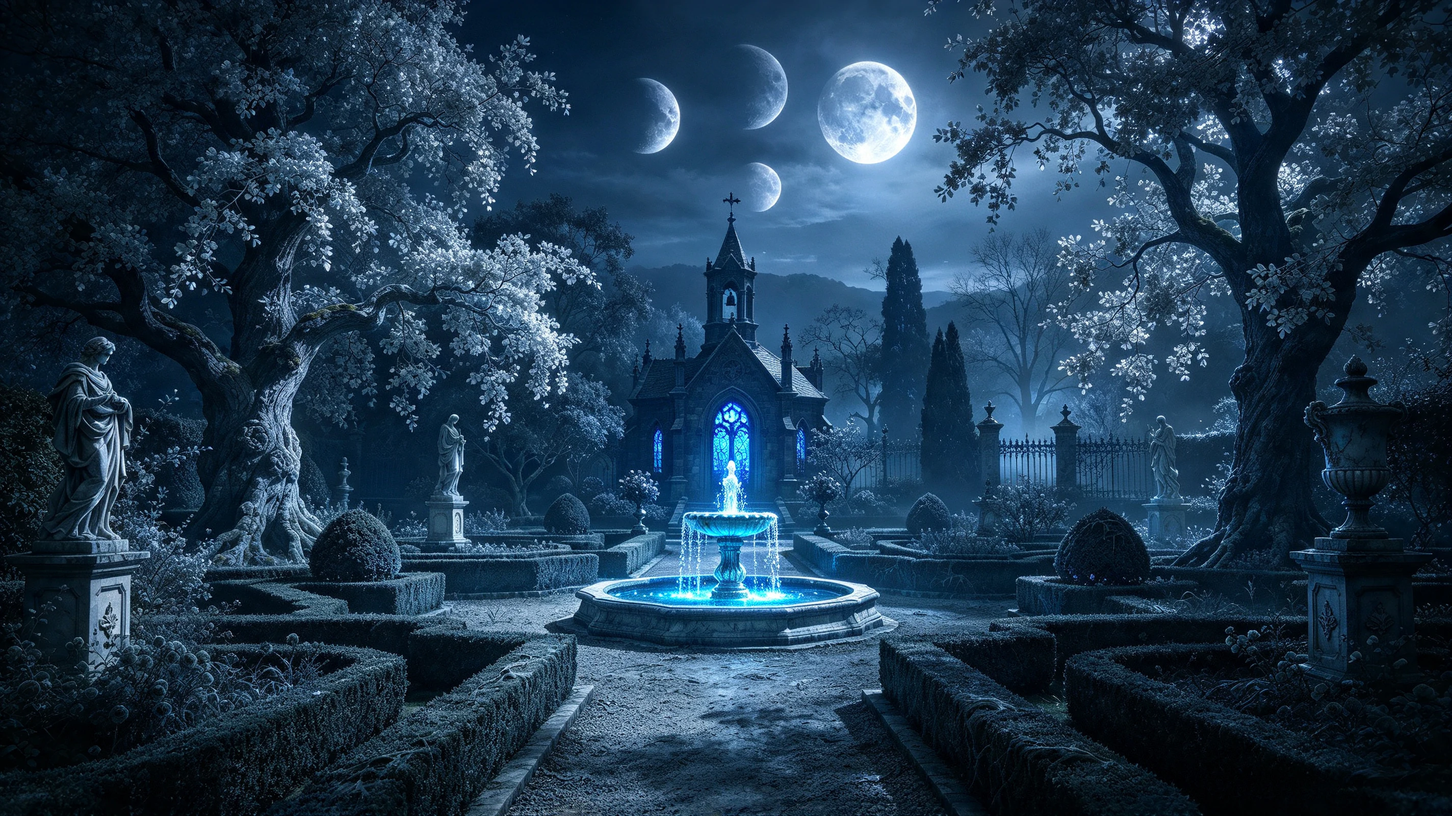
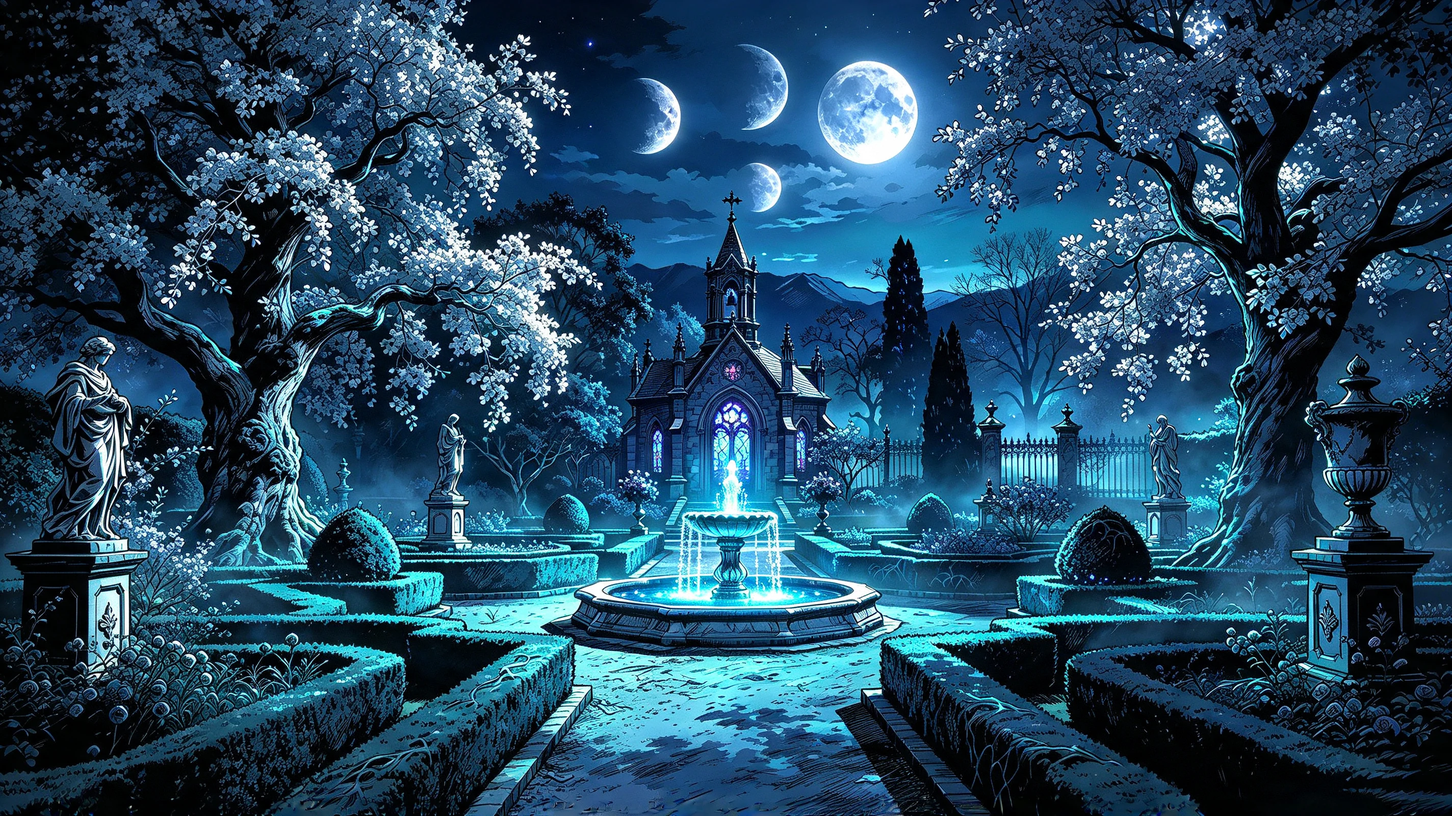
Esterni: niente ingresso principale, la foresta che riporta indietro senza costo; nuova immagine del giardino
- tolti il luogo «ingresso», l'arco, i solchi e la fuga con i mastini da Aldo
- a sud del giardino, scavalcando le siepi o oltre i settori della foresta si torna alla fontana o al limitare, senza danno mentale (prima la fuga dal giardino costava 1 punto)
- salvataggi fermi sull'ingresso: ripartono dal giardino
- giardino.webp nuovo (logo rimosso)
- storia 11b, punto della situazione e test degli esterni aggiornati

Claude-Session: https://claude.ai/code/session_01HNZwf73aujKp1jtML1nnTM

diff --git a/gioco.html b/gioco.html
@@ -5527,7 +5527,9 @@
     /* =====================================================================
        FUORI CASA, NUOVA CONFORMAZIONE (30/10): il giardino è il crocevia.
        Nord: cimitero (anche dalla porticina della cappella). Est: cappella e cripta. Ovest: orto e serra.
-       Sud: ingresso principale, un arco senza porte: chi prova a oltrepassarlo viene riportato da Aldo dai mastini.
+       Sud: nessun ingresso (02/11): la tenuta non ha cancelli, il personaggio è entrato dalla grotta.
+       La foresta che riporta indietro: chi prova ad allontanarsi (a sud del giardino, oltre i settori della foresta) si ritrova
+       alla fontana o al limitare da cui è entrato. Nessun costo.
        Tutto attorno la foresta, a settori: nord (pineta, oltre il cimitero), est (oltre la cappella), ovest (oltre la serra).
        TESTI PROVVISORI, da riscrivere; le immagini dei settori arriveranno (foresta_nord/est/ovest).
        ===================================================================== */
@@ -5544,17 +5546,6 @@
             ritorno: ["Torni tra le aiuole di pietra. Dai vetri anneriti della serra trapela ancora quel tepore umido."]
           },
           fatti: "Orto di Casa Vespera, a ovest della casa, oltre una siepe di bosso pietrificato: aiuole in file ordinate con paletti e cartellini di legno scritti a mano, ortaggi grigi e duri come pietra; in fondo una serra di ferro battuto e vetro, molti vetri anneriti dal fumo e alcuni incrinati, dentro un tepore umido e odore di terra bagnata; oltre la serra comincia la foresta di pini. Si torna in giardino dal viale verso la fontana."
-        },
-        ingresso: {
-          vista: { titolo: "Ingresso principale", alt: "Un viale di ghiaia tra cipressi pietrificati che termina sotto un grande arco di pietra annerita, senza cancello; oltre, la nebbia e i pini." },
-          stanza: {
-            intro: ["A sud della fontana il viale di ghiaia corre dritto tra due file di cipressi pietrificati, fino a un grande arco di pietra annerita. È l'ingresso della tenuta: due pilastri sormontati dall'albero dei Vespera, e in mezzo niente. Nessun cancello, nessuna catena, nessuna serratura. Solo il viale che prosegue oltre, nella nebbia, verso i pini.",
-              "Proprio sotto l'arco la ghiaia è segnata da solchi profondi, come di unghie trascinate. Tornano tutti indietro, verso la casa."],
-            nota: "Puoi oltrepassare l'arco («attraverso l'arco», «vado a sud») o tornare in giardino («torno in giardino»).",
-            fallbackLibera: ["Ci provi, ma qui non c'è nulla di utile in questo senso. Il viale, i cipressi di pietra e l'arco senza porte sono ciò che hai intorno."],
-            ritorno: ["Torni sotto l'arco. La nebbia oltre i pilastri non si è mossa di un palmo."]
-          },
-          fatti: "Ingresso principale della tenuta dei Vespera, a sud della fontana: viale di ghiaia dritto tra due file di cipressi pietrificati; in fondo un grande arco di pietra annerita su due pilastri sormontati dall'albero dei Vespera, senza cancello né porte; oltre l'arco il viale prosegue nella nebbia verso i pini; sotto l'arco solchi profondi nella ghiaia, come di unghie trascinate, che tornano tutti verso la casa. Dalla casa si esce solo con il permesso di Aldo, dalla tenuta mai: chi oltrepassa l'arco viene riportato indietro dai mastini. Si torna in giardino dal viale."
         },
         pineta_est: {
           vista: { titolo: "Foresta dei pini, est", alt: "Una foresta di pini alti sotto le lune, oltre la cappella." },
@@ -5584,16 +5575,6 @@
             ritorno: ["You return among the stone beds. That damp warmth still seeps from the blackened panes of the greenhouse."]
           }
         },
-        ingresso: {
-          vista: { titolo: "Main entrance", alt: "A gravel avenue between petrified cypresses ending beneath a great arch of blackened stone, with no gate; beyond, mist and pines." },
-          stanza: {
-            intro: ["South of the fountain the gravel avenue runs straight between two rows of petrified cypresses, up to a great arch of blackened stone. It is the entrance to the estate: two pillars crowned with the Vespera tree, and between them nothing. No gate, no chain, no lock. Only the avenue going on, into the mist, towards the pines.",
-              "Right beneath the arch the gravel is scored with deep furrows, like dragged claws. They all lead back, towards the house."],
-            nota: "You can pass beyond the arch (“I cross the arch”, “I go south”) or go back to the garden (“I return to the garden”).",
-            fallbackLibera: ["You try, but there is nothing useful here in that respect. The avenue, the stone cypresses and the doorless arch are what lie around you."],
-            ritorno: ["You return beneath the arch. The mist beyond the pillars has not moved an inch."]
-          }
-        },
         pineta_est: {
           vista: { titolo: "Pine forest, east", alt: "A forest of tall pines under the moons, beyond the chapel." },
           stanza: { intro: pEn.intro,
@@ -5609,38 +5590,28 @@
             ritorno: pEn.ritorno }
         }
       });
-      for (const id of ["serra", "ingresso", "pineta_est", "pineta_ovest"]) ESTERNI.en[id].fatti = ESTERNI.it[id].fatti;
+      for (const id of ["serra", "pineta_est", "pineta_ovest"]) ESTERNI.en[id].fatti = ESTERNI.it[id].fatti;
       Object.assign(ESTERNI.it.luoghi, {
         serra_aiuole: { fisso: ["Ti chini sulle aiuole. Cavoli, porri, cespi d'insalata: tutto di pietra grigia, perfetto fino all'ultima venatura delle foglie. Sui cartellini di legno una grafia minuta e ordinata ha scritto i nomi delle piante. Qualcuno, un tempo, teneva molto a quest'orto."] },
         serra_interno: { fisso: ["Spingi la porta della serra. Dentro l'aria è tiepida e umida, e per un attimo ti sembra di respirare di nuovo. Sui banconi, file di vasi: quasi tutti di pietra come il resto, ma in un angolo, sotto il vetro meno annerito, qualche piantina è ancora verde. La terra nei vasi è bagnata: qualcuno le annaffia."] },
-        ingresso_arco: { fisso: ["Ti avvicini ai pilastri. La pietra è annerita, ma l'albero dei Vespera in cima è intatto, le radici intrecciate scolpite con cura. Tra i pilastri non ci sono cardini, né segni di un cancello che sia mai stato montato. Questa porta non ha mai avuto bisogno di chiudersi."] },
-        ingresso_solchi: { fisso: ["Ti chini sulla ghiaia. I solchi sono profondi, a gruppi di quattro, come artigli che hanno trascinato qualcosa di pesante. Partono tutti appena oltre l'arco e tornano verso la casa. Nessuno va nell'altra direzione."] }
       });
       Object.assign(ESTERNI.en.luoghi, {
         serra_aiuole: { fisso: ["You bend over the beds. Cabbages, leeks, heads of lettuce: all grey stone, perfect down to the last vein of the leaves. On the wooden labels a small, neat hand has written the names of the plants. Someone, once, cared a great deal for this garden."] },
         serra_interno: { fisso: ["You push the greenhouse door. Inside the air is warm and damp, and for a moment you feel you can breathe again. On the benches, rows of pots: almost all stone like the rest, but in a corner, under the least blackened pane, a few seedlings are still green. The soil in the pots is wet: someone waters them."] },
-        ingresso_arco: { fisso: ["You approach the pillars. The stone is blackened, but the Vespera tree on top is intact, its intertwined roots carved with care. Between the pillars there are no hinges, no sign that a gate was ever hung. This door has never needed to close."] },
-        ingresso_solchi: { fisso: ["You bend over the gravel. The furrows are deep, in groups of four, like claws that dragged something heavy. They all start just beyond the arch and lead back towards the house. None goes the other way."] }
       });
       Object.assign(ESTERNI.it, {
-        fugaIngresso: ["Passi sotto l'arco. Dieci passi, venti: la ghiaia diventa terra battuta, la nebbia si chiude alle tue spalle. Poi, davanti a te, un ringhio basso. Un altro di lato. Un terzo dietro. I mastini escono dalla nebbia senza fretta, gli occhi di brace, il fiato che fuma. Non ti attaccano: ti stringono, ti spingono, un passo alla volta, lungo il viale, oltre la fontana, dentro il portone.",
-          "Non hai ancora superato i pilastri che il viale si riempie di ombre basse e fumanti. I mastini ti circondano in silenzio; uno ti prende il polso tra le zanne, senza stringere, e comincia a tirare. Non verso la nebbia. Verso la casa."],
-        aldoFuga: ["«Uscire dalla casa è un permesso che concedo io. Lasciare le terre dei Vespera, invece, è un permesso che non concedo a nessuno.» Aldo fa un cenno, e i mastini si dileguano. «Che non si ripeta. I miei cani non sono pazienti quanto me.»"],
         nessunaStrada: "Da quella parte non c'è un passaggio: solo siepi, pietra e buio."
       });
       Object.assign(ESTERNI.en, {
-        fugaIngresso: ["You pass beneath the arch. Ten steps, twenty: the gravel turns to packed earth, the mist closes behind you. Then, ahead of you, a low growl. Another to one side. A third behind. The mastiffs come out of the mist unhurried, eyes of embers, breath smoking. They do not attack: they close in, they push, one step at a time, along the avenue, past the fountain, through the great door.",
-          "You have not yet passed the pillars when the avenue fills with low, smoking shadows. The mastiffs surround you in silence; one takes your wrist between its jaws, without biting down, and starts to pull. Not towards the mist. Towards the house."],
-        aldoFuga: ["“Leaving the house is a permission I grant. Leaving the lands of the Vespera, however, is a permission I grant to no one.” Aldo makes a sign, and the mastiffs melt away. “Do not let it happen again. My dogs are not as patient as I am.”"],
         nessunaStrada: "There is no way through in that direction: only hedges, stone and darkness."
       });
     }
-    for (const l of ["it", "en"]) for (const id of ["cimitero", "pineta", "serra", "ingresso", "pineta_est", "pineta_ovest"]) { TESTI[l].stanze[id] = ESTERNI[l][id].stanza; TESTI[l].viste[id] = ESTERNI[l][id].vista; Object.assign(TESTI[l].luoghi, ESTERNI[l].luoghi); }
-    for (const id of ["cimitero", "pineta", "serra", "ingresso", "pineta_est", "pineta_ovest"]) STANZE_FATTI[id] = ESTERNI.it[id].fatti;
+    for (const l of ["it", "en"]) for (const id of ["cimitero", "pineta", "serra", "pineta_est", "pineta_ovest"]) { TESTI[l].stanze[id] = ESTERNI[l][id].stanza; TESTI[l].viste[id] = ESTERNI[l][id].vista; Object.assign(TESTI[l].luoghi, ESTERNI[l].luoghi); }
+    for (const id of ["cimitero", "pineta", "serra", "pineta_est", "pineta_ovest"]) STANZE_FATTI[id] = ESTERNI.it[id].fatti;
     const EST2 = ESTERNI[LINGUA] || ESTERNI.it;
     { /* luoghi del cimitero e della foresta: due prove per gli ingredienti, che si riaprono a ogni riposo */
       const erbe = (ok) => { if (ok) { usate.pineta_erbe = usate.pineta_cerca = "ok"; salvaUsate(); raccogliErbe(); } };
-      const M = { cim_lapidi: {}, cim_rovi: {}, cim_cancello: {}, pineta_alberi: {}, pineta_sentiero: {}, serra_aiuole: {}, serra_interno: {}, ingresso_arco: {}, ingresso_solchi: {},
+      const M = { cim_lapidi: {}, cim_rovi: {}, cim_cancello: {}, pineta_alberi: {}, pineta_sentiero: {}, serra_aiuole: {}, serra_interno: {},
         pineta_erbe: { prova: { abilita: "Sopravvivenza", dado: 20, cd: 12 }, poi: erbe },
         pineta_cerca: { prova: { abilita: "Indagare", dado: 20, cd: 12 }, poi: erbe } };
       for (const id in M) LUOGHI[id] = { ...M[id], ...EST2.luoghi[id] };
@@ -5648,7 +5619,6 @@
     LUOGHI.cappella_panche = { ...LUOGHI.cappella_panche, prova: { abilita: "Indagare", dado: 20, cd: 12 }, ...ET.panche }; /* le tacche di Ettore: i suoi giorni */
     PROVE_DICHIARATE.pineta = PROVE_DICHIARATE.pineta_est = PROVE_DICHIARATE.pineta_ovest = { Sopravvivenza: "pineta_erbe", Indagare: "pineta_cerca", Percezione: "pineta_alberi" };
     PROVE_DICHIARATE.serra = { Indagare: "serra_interno", Percezione: "serra_aiuole" };
-    PROVE_DICHIARATE.ingresso = { Indagare: "ingresso_solchi", Percezione: "ingresso_arco", Sopravvivenza: "ingresso_solchi" };
     const FORESTE = ["pineta", "pineta_est", "pineta_ovest"]; /* 30/10: la foresta a settori (nord, est, ovest) */
     PROVE_DICHIARATE.cimitero = { Indagare: "cim_lapidi", Percezione: "cim_rovi" };
     /* =====================================================================
@@ -5908,6 +5878,7 @@
 
     /* Una nuova partita parte dalla foresta, fuori dal dungeon; i salvataggi già esistenti riprendono dal loro luogo */
     let luogo = (salvata && Array.isArray(salvata.diario) && salvata.diario.length) ? "atrio" : "foresta";
+    if (salvata && salvata.luogo === "ingresso") salvata.luogo = "giardino"; /* 02/11: l'ingresso principale non esiste più */
     if (salvata && salvata.luogo && STANZE[salvata.luogo]) luogo = salvata.luogo;
 
     const SCALE = { ...TX.scale, soglia: 14, dannoDado: 4 };
@@ -6086,7 +6057,6 @@
         if (/cappell|chapel|chiesa|church/.test(t)) return (muovi || torna || /\bentr\w*|\bvado\b|\bgo\b/.test(t)) && !guarda ? "entra_cappella" : "giardino_cappella";
         if (/cimiter\w*|camposanto|lapid\w*|graveyard|cemetery|headstones?/.test(t)) return (muovi || /\bentr\w*|\bvado\b|\bgo\b/.test(t)) && !guarda ? "entra_cimitero" : "stanza_corrente";
         if (/\bserr[ae]\b|\borto\b|ortagg\w*|aiuol\w*|greenhouse|kitchen garden|vegetable/.test(t)) return (muovi || /\bentr\w*|\bvado\b|\bgo\b/.test(t)) && !guarda ? "entra_serra" : "stanza_corrente";
-        if (/ingresso|\barco\b|cipress\w*|viale principal\w*|main entrance|archway|\barch\b|cypress\w*|main avenue/.test(t)) return (muovi || /\bentr\w*|\bvado\b|\bgo\b/.test(t)) && !guarda ? "entra_ingresso" : "stanza_corrente";
         if (/pinet\w*|\bpini\b|forest\w*|\bbosco\b|\bwoods?\b|\bpines?\b/.test(t)) return "pineta_lontana";
         if (/fontan|vasca|\bacqua\b|fountain|basin|water/.test(t)) return /\bbev\w*|\bbere\b|sors\w*|\bdrink\w*|\bsip\w*|disset\w*/.test(t) ? "fontana_bevi" : "giardino_fontana";
         if (/statu\w*|\bdam[ae] velat\w*|statue/.test(t)) return "giardino_statue";
@@ -6129,16 +6099,10 @@
         if (/\bserr[ae]\b|vetr\w*|vas[io]\b|piantin\w*|bancon\w*|greenhouse|glass|panes?|pots?|seedlings?|dentro|inside/.test(t)) return "serra_interno";
         if (/aiuol\w*|ortagg\w*|\borto\b|cartellin\w*|palett\w*|cavol\w*|beds?|vegetables?|labels?|stakes?/.test(t)) return "serra_aiuole";
       }
-      if (luogo === "ingresso") {
-        if (!guarda && /oltrepass\w*|attravers\w*|varc\w*|super\w*|scapp\w*|fugg\w*|\besc[oi]\b|uscir\w*|allontan\w*|prosegu\w*|nebbi\w*|\bcross\w*|pass (through|beyond|under)|escape|flee|run away|\bleave\b|beyond|\bmist\b/.test(t)) return "fuga_ingresso";
-        if (torna || /giardin|garden|fontan|fountain/.test(t)) return "torna";
-        if (atrio || /\bcasa\b|house|manor|cappell|chapel|cripta|crypt|cimiter|graveyard/.test(t)) return "casa_lontana";
-        if (/solch\w*|ghiai\w*|unghi\w*|artigl\w*|furrows?|gravel|claws?|tracks?/.test(t)) return "ingresso_solchi";
-        if (/\barco\b|pilastr\w*|alber\w*|cardin\w*|\barch\w*|pillars?|tree|hinges?/.test(t)) return "ingresso_arco";
-      }
       if (FORESTE.includes(luogo)) {
         const ritorno = { pineta: /cimiter\w*|cancell\w*|lapid\w*|graveyard|cemetery|\bgate\b/, pineta_est: /cappell\w*|campanil\w*|chapel|bell tower/, pineta_ovest: /\bserr[ae]\b|\borto\b|greenhouse|kitchen garden/ }[luogo];
         if (torna || ritorno.test(t)) return "torna";
+        if (!guarda && /scapp\w*|fugg\w*|allontan\w*|uscir\w*|\besc[oi] dal\w*|oltre|confin\w*|escape|flee|run away|get away|\bleave\b|beyond|way out/.test(t)) return "pineta_sentiero"; /* 02/11: la foresta riporta indietro */
         if (atrio || /\bcasa\b|house|manor|cappell|chapel|cripta|crypt|giardin|garden|cimiter\w*|graveyard|\bserr[ae]\b|greenhouse/.test(t)) return "casa_lontana";
         if (/\berb[ae]\b|ingredient\w*|radic\w*|fung\w*|bacch\w*|spor[ae]\b|sottobosc\w*|veleni?\b|raccogl\w*|herbs?|roots?|mushroom\w*|berr\w*|spores?|undergrowth|poisons?|gather\w*|forag\w*/.test(t))
           return /indag\w*|\bfrug\w*|rovist\w*|scav\w*|rivolt\w*|search\w*|rummag\w*|\bdig\w*/.test(t) ? "pineta_cerca" : "pineta_erbe";
@@ -7982,9 +7946,8 @@
       if (prima) { usate.portone_aperto = true; salvaUsate(); }
       vai("giardino", prima ? { prima: A.ui.portoneApre } : undefined);
     }
-    function fugaGiardino() {
-      const [da, a] = dannoMenteSubito(1);
-      aggiungi({ tipo: "narra", box: "ko", righe: [pesca(A.ui.fuga), U.dannoMentale(da, a)] });
+    function fugaGiardino() { /* 02/11: la foresta che riporta indietro, senza costo */
+      aggiungi({ tipo: "narra", righe: [pesca(A.ui.fuga)] });
     }
 
     /* ---------- Ettore, nella cripta ---------- */
@@ -8309,7 +8272,7 @@
        - fuori casa (giardino, cimitero, cappella): 20% a ogni ingresso; ratto, corvo, lupo e i loro doppi infernali. Mai alla prima visita,
          e in giardino con una caccia aperta si fa avanti la preda di Aldo. In cripta niente: lì c'è il braciere (ed Ettore).
        In caso di incontro: 70% animale, 30% infernale; livello 1 solo infernali di grado 1, poi anche il grado 2. */
-    const PROB_ZONA = { foresta: 0.4, fuori: 0.2 }, PROB_ANIMALE_ZONA = { foresta: 0.6, fuori: 0.67 }, LUOGHI_FUORI = ["giardino", "cimitero", "cappella", "serra", "ingresso"]; /* 30/10: anche orto e ingresso */ /* 29/10: foresta 60:40; fuori casa 67:33, dopo il bronzo 50:25:25 con gli agguati */
+    const PROB_ZONA = { foresta: 0.4, fuori: 0.2 }, PROB_ANIMALE_ZONA = { foresta: 0.6, fuori: 0.67 }, LUOGHI_FUORI = ["giardino", "cimitero", "cappella", "serra"]; /* 30/10: anche l'orto (02/11: ingresso tolto) */ /* 29/10: foresta 60:40; fuori casa 67:33, dopo il bronzo 50:25:25 con gli agguati */
     const zonaDi = (l) => FORESTE.includes(l) ? "foresta" : LUOGHI_FUORI.includes(l) ? "fuori" : null;
     const inZona = (k, z) => (PREDE[k].zone || []).includes(z);
     const ANIMALI_IDS = (z) => Object.keys(PREDE).filter(k => PREDE[k].grado === 0 && inZona(k, z || "foresta"));
@@ -10326,8 +10289,8 @@
       anticamera_trono: ["pianerottolo", "atrio"], corridoio_primo: ["pianerottolo", "atrio", "sala_ballo"], sala_conversazione: ["atrio", "sala_pranzo"],
       sala_pranzo: ["sala_conversazione", "corridoio"], corridoio: ["sala_pranzo", "cucina", "sala_ballo"],
       cucina: ["corridoio", "dispensa", "servizio"], dispensa: ["cucina"], servizio: ["cucina", "cantina"], cantina: ["servizio"],
-      sala_ballo: ["corridoio", "corridoio_primo"], giardino: ["atrio", "cappella", "cimitero", "serra", "ingresso"], cappella: ["giardino", "cripta", "cimitero", "pineta_est"], cripta: ["cappella"], cimitero: ["giardino", "cappella", "pineta"],
-      serra: ["giardino", "pineta_ovest"], ingresso: ["giardino"], pineta: ["cimitero", "pineta_est", "pineta_ovest"], pineta_est: ["cappella", "pineta"], pineta_ovest: ["serra", "pineta"],
+      sala_ballo: ["corridoio", "corridoio_primo"], giardino: ["atrio", "cappella", "cimitero", "serra"], cappella: ["giardino", "cripta", "cimitero", "pineta_est"], cripta: ["cappella"], cimitero: ["giardino", "cappella", "pineta"],
+      serra: ["giardino", "pineta_ovest"], pineta: ["cimitero", "pineta_est", "pineta_ovest"], pineta_est: ["cappella", "pineta"], pineta_ovest: ["serra", "pineta"],
       sala_caccia: ["atrio", "sala_trofei"], sala_trofei: ["sala_caccia"]
     };
     const NOMI_STANZE = [ /* dal più specifico al più generico */
@@ -10348,7 +10311,6 @@
       ["pineta", /pinet\w*|\bpini\b|forest\w*|\bbosco\b|\bwoods?\b|\bpines?\b/],
       ["cappella", /cappell\w*|chapel/],
       ["serra", /\bserr[ae]\b|\borto\b|greenhouse|kitchen garden/],
-      ["ingresso", /ingresso principal\w*|\barco\b|main entrance|archway|\barch\b/],
       ["giardino", /giardin\w*|garden|fontan\w*|fountain/],
       ["pianerottolo", /pianerottol\w*|\blanding\b/],
       ["atrio", /atrio|atrium|foyer|entrance hall|\bthe hall\b/] /* «the hall» da solo: le altre sale («hunting hall», «dining hall») sono riconosciute prima */
@@ -10393,14 +10355,13 @@
     }
     /* ---------- 30/10: muoversi per punti cardinali fuori casa («vado a est», «nord») ---------- */
     const DIREZIONI = {
-      giardino: { nord: "cimitero", est: "cappella", ovest: "serra", sud: "ingresso" },
+      giardino: { nord: "cimitero", est: "cappella", ovest: "serra", sud: "giro" },
       cimitero: { sud: "giardino", nord: "pineta" },
       cappella: { ovest: "giardino", est: "pineta_est" },
       serra: { est: "giardino", ovest: "pineta_ovest" },
-      ingresso: { nord: "giardino", sud: "fuga" },
-      pineta: { sud: "cimitero", est: "pineta_est", ovest: "pineta_ovest" },
-      pineta_est: { ovest: "cappella", nord: "pineta" },
-      pineta_ovest: { est: "serra", nord: "pineta" }
+      pineta: { sud: "cimitero", est: "pineta_est", ovest: "pineta_ovest", nord: "giro" },
+      pineta_est: { ovest: "cappella", nord: "pineta", est: "giro", sud: "giro" },
+      pineta_ovest: { est: "serra", nord: "pineta", ovest: "giro", sud: "giro" }
     };
     const PUNTI_CARDINALI = [
       ["nord", /\b(nord|settentrione|north\w*)\b/], ["sud", /\b(sud|meridione|south\w*)\b/],
@@ -10416,22 +10377,12 @@
       if (ha(t, "guarda") && !RE_MOSSA.test(t)) return null; /* «guardo a nord»: lo descrive la stanza */
       const dest = mappa[p[0]];
       if (!dest) return () => aggiungi({ tipo: "narra", righe: [EST2.nessunaStrada] });
-      if (dest === "fuga") return () => fugaIngresso();
+      if (dest === "giro") return () => FORESTE.includes(luogo) ? esamina("pineta_sentiero") : fugaGiardino(); /* 02/11: la foresta che riporta indietro */
       if (dest === "cappella" && luogo === "giardino") return () => vai("cappella");
       return () => vai(dest);
     }
-    /* oltre l'arco dell'ingresso: i mastini riportano il personaggio da Aldo (si esce dalla casa solo con il suo permesso, dalla tenuta mai) */
-    function fugaIngresso() {
-      const [da, a] = dannoMenteSubito(1);
-      aggiungi({ tipo: "narra", box: "ko", righe: [pesca(EST2.fugaIngresso), U.dannoMentale(da, a)] });
-      const dest = cacciaAperta() ? "sala_caccia" : "atrio";
-      setTimeout(() => fuoriDallaTendina(() => {
-        vai(dest);
-        aggiungi({ tipo: "dialogo", fuori: true, tuttoBox: true, chi: "Aldo", macchina: true, righe: EST2.aldoFuga });
-      }), 1800);
-    }
     /* «torno indietro»: la stanza da cui si è arrivati */
-    const DOVE_TORNA = { serra: "giardino", ingresso: "giardino", pineta_est: "cappella", pineta_ovest: "serra", pianerottolo: "atrio", cantina: "servizio", dispensa: "cucina", servizio: "cucina", cucina: "corridoio", sala_ballo: "corridoio", corridoio: "sala_pranzo", sala_pranzo: "sala_conversazione", giardino: "atrio", cappella: "giardino", cimitero: "giardino", pineta: "cimitero", cripta: "cappella", sala_trofei: "sala_caccia", anticamera_trono: "pianerottolo", corridoio_primo: "pianerottolo" };
+    const DOVE_TORNA = { serra: "giardino", pineta_est: "cappella", pineta_ovest: "serra", pianerottolo: "atrio", cantina: "servizio", dispensa: "cucina", servizio: "cucina", cucina: "corridoio", sala_ballo: "corridoio", corridoio: "sala_pranzo", sala_pranzo: "sala_conversazione", giardino: "atrio", cappella: "giardino", cimitero: "giardino", pineta: "cimitero", cripta: "cappella", sala_trofei: "sala_caccia", anticamera_trono: "pianerottolo", corridoio_primo: "pianerottolo" };
     let ultimoTesto = "";
     async function gestisci(testo) {
       const t = norm(testo);
@@ -10578,8 +10529,6 @@
       if (id === "entra_pineta_est") return vai("pineta_est");
       if (id === "entra_pineta_ovest") return vai("pineta_ovest");
       if (id === "entra_serra") return vai("serra");
-      if (id === "entra_ingresso") return vai("ingresso");
-      if (id === "fuga_ingresso") return fugaIngresso();
       if (id === "pineta_lontana") return aggiungi({ tipo: "narra", righe: [EST2.pineLontana] });
       if (id === "cappella_porticina") return aggiungi({ tipo: "narra", righe: [LINGUA === "en" ? "At the back of the chapel, to the left of the altar, a low little door opens onto the family graveyard." : "Sul fondo della cappella, a sinistra dell'altare, una porticina bassa dà sul cimitero di famiglia."] });
       if (id === "entra_trofei") return vai("sala_trofei");

diff --git a/tests/esterni.browser.js b/tests/esterni.browser.js
@@ -50,7 +50,7 @@ const aspettaTurnoPg = (page) => page.waitForFunction(() => typeof scontro !== "
 const diario = (page) => page.evaluate(() => document.getElementById("diario").textContent);
 
 
-/* 30/10: fuori casa il giardino è il crocevia (nord cimitero, est cappella, ovest serra, sud ingresso) e la foresta è a settori */
+/* 30/10: fuori casa il giardino è il crocevia (nord cimitero, est cappella, ovest serra, a sud la foresta riporta indietro) e la foresta è a settori */
 const FUORI = () => PARTITA({ luogo: "giardino", diario: [{ tipo: "narra", stanza: "giardino", righe: ["x"] }], usate: { riposo: "sbloccato", luce: "ok", chiave_portone: "presa", q4: "prova", giardino_visto: "si" } });
 const prep = (page) => page.evaluate(() => { window.incontroZona = () => {}; });
 const vai_ = async (page, t) => { await page.evaluate(x => gestisci(x), t); await page.waitForTimeout(250); return page.evaluate(() => luogo); };
@@ -65,11 +65,9 @@ caso("Esterni: punti cardinali dal giardino e ritorno", async (b) => {
   eq(await vai_(page, "torno in giardino"), "giardino");
   eq(await vai_(page, "ovest"), "serra");
   eq(await vai_(page, "torno alla fontana"), "giardino");
-  eq(await vai_(page, "vado verso sud"), "ingresso");
-  eq(await vai_(page, "torno in giardino"), "giardino");
+  eq(await vai_(page, "vado verso sud"), "giardino", "a sud non c'è un ingresso: la foresta riporta indietro");
   eq(await vai_(page, "vado all'orto"), "serra");
   eq(await vai_(page, "torno indietro"), "giardino");
-  eq(await vai_(page, "vado all'ingresso principale"), "ingresso");
   eq(errori, [], "errori"); await chiudi();
 });
 
@@ -81,24 +79,25 @@ caso("Esterni: la foresta a settori, ingresso dal luogo confinante", async (b) =
   eq(await vai_(page, "vado nella foresta"), "pineta_ovest");
   eq(await vai_(page, "vado a nord"), "pineta");
   eq(await vai_(page, "vado a est"), "pineta_est");
-  eq(await vai_(page, "vado a sud"), "pineta_est", "a sud della foresta est non c'è passaggio");
+  eq(await vai_(page, "vado a sud"), "pineta_est", "a sud della foresta est il bosco riporta indietro");
   eq(await vai_(page, "torno indietro"), "cappella");
   eq(await vai_(page, "vado nella foresta"), "pineta_est");
-  eq(await page.evaluate(() => [zonaDi("pineta_est"), zonaDi("serra"), zonaDi("ingresso"), vista("pineta_ovest").titolo]), ["foresta", "fuori", "fuori", "Foresta dei pini, ovest"]);
+  eq(await page.evaluate(() => [zonaDi("pineta_est"), zonaDi("serra"), vista("pineta_ovest").titolo]), ["foresta", "fuori", "Foresta dei pini, ovest"]);
   eq(await page.evaluate(() => PROVE_DICHIARATE.pineta_est.Sopravvivenza), "pineta_erbe");
   eq(errori, [], "errori"); await chiudi();
 });
 
-caso("Esterni: oltre l'arco i mastini riportano il personaggio da Aldo (1 danno mentale)", async (b) => {
+caso("Esterni: la foresta che riporta indietro, senza costo (niente ingresso principale)", async (b) => {
   const { page, errori, chiudi } = await apri(b, "gioco.html", PG(), FUORI()); await prep(page);
-  await vai_(page, "vado a sud");
   const prima = await page.evaluate(() => pg.dannoMentale || 0);
-  await page.evaluate(() => gestisci("attraverso l'arco"));
-  await page.waitForFunction(() => luogo === "sala_caccia", null, { timeout: 5000 });
-  eq(await page.evaluate(() => pg.dannoMentale || 0), prima + 1);
-  vero(await page.evaluate(() => diario.some(e => e.chi === "Aldo" && e.stanza === "sala_caccia" && (e.righe || []).join(" ").includes("non concedo a nessuno"))), "manca la battuta di Aldo");
-  await page.evaluate(() => { luogo = "ingresso"; }); await vai_(page, "vado a sud");
-  await page.waitForFunction(() => luogo === "sala_caccia", null, { timeout: 5000 });
+  eq(await vai_(page, "vado a sud"), "giardino");
+  eq(await vai_(page, "scappo oltre le siepi"), "giardino");
+  eq(await page.evaluate(() => typeof STANZE.ingresso), "undefined", "il luogo ingresso non deve esistere");
+  await vai_(page, "vado alla serra"); await vai_(page, "vado nella foresta");
+  eq(await vai_(page, "vado a ovest"), "pineta_ovest", "oltre il settore ovest si torna al limitare");
+  eq(await vai_(page, "mi allontano dalla casa"), "pineta_ovest");
+  vero((await diario(page)).includes("non c'è un'uscita"), "manca il testo del bosco che gira in tondo");
+  eq(await page.evaluate(() => pg.dannoMentale || 0), prima, "allontanarsi non costa punti mentali");
   eq(errori, [], "errori"); await chiudi();
 });
 

diff --git a/docs/storia_casa_vespera.md b/docs/storia_casa_vespera.md
@@ -3,7 +3,7 @@
 Documento di riferimento per scrivere diari, flashback, dialoghi e finali. Contiene tutti gli spoiler: non va mostrato al giocatore.
 **Regola di lavoro:** questo file è la linea guida condivisa tra Francesco e Claude. Si aggiorna a ogni decisione, e ogni scelta dell'uno può essere messa in discussione dall'altro.
 
-Ultimo aggiornamento: 1 novembre 2026, pomeriggio (sezione 10b: il bottino di Enea completato: Darius, Caius e Magnus, i quattro flashback scritti da Francesco, i poteri dello scudo, del martello, dei calzari e del maglio; il Rettore). Prima, 1 novembre 2026 (unite le due versioni del 30 ottobre: il bottino di Enea del pomeriggio, sezione 10b, e la nuova conformazione dell'esterno, sezione 11b). Prima, 30 ottobre, mezzogiorno (sezione 11b: nuova conformazione dell'esterno, il giardino è il crocevia: nord cimitero, est cappella e cripta, ovest orto e serra, sud ingresso principale senza porte; foresta a settori; chi oltrepassa l'arco viene riportato da Aldo dai mastini). Prima, 30 ottobre, mattina (Enea: «Mi difendo» contestuale, numeri proposti, vulnerabile a forza, luce e veleno, nella sala di prova del tutorial). Prima, 29 ottobre, notte (nuova sezione 10b: il carattere di Enea, guardiano d'argento, e il suo scontro senza stato firma: mani nude veloci, maglio lento con colpo caricato, finta e adattamento; slot del fermaglio con titolo sotto il ritratto; Corrado Vallerossa è il bronzo risparmiato da Enea). Prima, 29 ottobre, sera (agguati nel gioco: orchi e goblin, anche in banda, e i cinque avventurieri con le frasi di Francesco; la resa, il risparmio una volta sola, finire chi chiede pietà o fugge costa 1 punto mentale letale). Prima, 29 pomeriggio (elisir comuni e rari nel gioco; agguati con orchi, goblin e cinque avventurieri proposti; giaciglio della cripta allineato all'immagine; nuovo ritratto di Ettore). Prima, 29 a mezzogiorno (Ettore: inizio dello scontro con la spada da recuperare, vulnerabile a luce e contundente, ritratto; Accecato solo in combattimento; in discussione elisir comuni e rari e agguati con orchi e goblin). Prima, 29 mattina (confermati concentrati, borsa a 2 per stato, armature e scudi +1/+2, vulnerabilità sul dado base anche senza tiro, le quattro scelte della notte; foresta con immagine e testo di Francesco; cripta con due immagini, con Ettore e senza; cacce di Aldo contro altri avventurieri da progettare; alternativa elisir comuni e rari da decidere). Aggiornamento precedente: 28 ottobre 2026, notte (passo 4: dentro casa solo i mastini, fuori casa ratto, corvo e lupo, nella foresta lupo, cinghiale, cervo e vipera, ognuno con il suo doppio infernale e statistiche fisse; il coniglio esce e la cura di Impaurito passa alla zanna di lupo; parti infernali per i concentrati; agguati solo fuori casa, perché è Aldo a controllare ingressi e uscite; mastini letali tranne quelli di Aldo. Prima, passo 3: Ettore con Vigore 12, attacco +3, spada 1d6 + 3, CD 11; il Colpo basso non scatta con Scudo e Scudo della Fede; gli incantesimi d'attacco aggiungono il modificatore dell'attributo. Prima, passo 2 del bilanciamento chiuso: sei stati comuni a giocatore e PNG, 1d4 per i tre stati che tolgono salute e 1d6 nella versione potenziata, durate 3/2 turni che finiscono con lo scontro, immunità, Impaurito (pedinamento) contato in stanze, erbe nuove prima di quelle a caso; PA fissi per tipologia e costi standard per ogni abilità con stato; poteri d'arma al 50%; stati corrotti di Dafne e Atena, con il controllo forte di Atena legato alla lacrima; salute del personaggio con il dado vita al massimo al livello 1 e crescita fissa).
+Ultimo aggiornamento: 2 novembre 2026 (sezione 11b: niente ingresso principale, la foresta che riporta indietro senza costo, nuova immagine del giardino). Prima: 1 novembre 2026, pomeriggio (sezione 10b: il bottino di Enea completato: Darius, Caius e Magnus, i quattro flashback scritti da Francesco, i poteri dello scudo, del martello, dei calzari e del maglio; il Rettore). Prima, 1 novembre 2026 (unite le due versioni del 30 ottobre: il bottino di Enea del pomeriggio, sezione 10b, e la nuova conformazione dell'esterno, sezione 11b). Prima, 30 ottobre, mezzogiorno (sezione 11b: nuova conformazione dell'esterno, il giardino è il crocevia: nord cimitero, est cappella e cripta, ovest orto e serra, sud ingresso principale senza porte; foresta a settori; chi oltrepassa l'arco viene riportato da Aldo dai mastini). Prima, 30 ottobre, mattina (Enea: «Mi difendo» contestuale, numeri proposti, vulnerabile a forza, luce e veleno, nella sala di prova del tutorial). Prima, 29 ottobre, notte (nuova sezione 10b: il carattere di Enea, guardiano d'argento, e il suo scontro senza stato firma: mani nude veloci, maglio lento con colpo caricato, finta e adattamento; slot del fermaglio con titolo sotto il ritratto; Corrado Vallerossa è il bronzo risparmiato da Enea). Prima, 29 ottobre, sera (agguati nel gioco: orchi e goblin, anche in banda, e i cinque avventurieri con le frasi di Francesco; la resa, il risparmio una volta sola, finire chi chiede pietà o fugge costa 1 punto mentale letale). Prima, 29 pomeriggio (elisir comuni e rari nel gioco; agguati con orchi, goblin e cinque avventurieri proposti; giaciglio della cripta allineato all'immagine; nuovo ritratto di Ettore). Prima, 29 a mezzogiorno (Ettore: inizio dello scontro con la spada da recuperare, vulnerabile a luce e contundente, ritratto; Accecato solo in combattimento; in discussione elisir comuni e rari e agguati con orchi e goblin). Prima, 29 mattina (confermati concentrati, borsa a 2 per stato, armature e scudi +1/+2, vulnerabilità sul dado base anche senza tiro, le quattro scelte della notte; foresta con immagine e testo di Francesco; cripta con due immagini, con Ettore e senza; cacce di Aldo contro altri avventurieri da progettare; alternativa elisir comuni e rari da decidere). Aggiornamento precedente: 28 ottobre 2026, notte (passo 4: dentro casa solo i mastini, fuori casa ratto, corvo e lupo, nella foresta lupo, cinghiale, cervo e vipera, ognuno con il suo doppio infernale e statistiche fisse; il coniglio esce e la cura di Impaurito passa alla zanna di lupo; parti infernali per i concentrati; agguati solo fuori casa, perché è Aldo a controllare ingressi e uscite; mastini letali tranne quelli di Aldo. Prima, passo 3: Ettore con Vigore 12, attacco +3, spada 1d6 + 3, CD 11; il Colpo basso non scatta con Scudo e Scudo della Fede; gli incantesimi d'attacco aggiungono il modificatore dell'attributo. Prima, passo 2 del bilanciamento chiuso: sei stati comuni a giocatore e PNG, 1d4 per i tre stati che tolgono salute e 1d6 nella versione potenziata, durate 3/2 turni che finiscono con lo scontro, immunità, Impaurito (pedinamento) contato in stanze, erbe nuove prima di quelle a caso; PA fissi per tipologia e costi standard per ogni abilità con stato; poteri d'arma al 50%; stati corrotti di Dafne e Atena, con il controllo forte di Atena legato alla lacrima; salute del personaggio con il dado vita al massimo al livello 1 e crescita fissa).
 Aggiornamento precedente: 28 ottobre 2026, sera (morte, fuga e modalità facile/difficile; durata degli stati ed elisir; il sovrano: alabarda, corona di cenere, fuoco freddo, tre fasi; danno dei nemici; agguati: il riscatto del disperato; soglie 300/1000/2400/4400; poteri delle armi divisi, pedinamento con 1d2 danni mentali letali; prima: nuova sezione 14: progressione, punti abilità dei nemici, armi e bottino, con i dettagli in **bilanciamento_nemici_oggetti.md**; sezione 8b: l'arma del set prende il posto degli stivali; sezione 11: foresta al 40% senza limite per riposo, mastini dei corridoi, cacce due per fermaglio).
 Aggiornamento ancora precedente: 27 ottobre 2026, notte (sezione 10: il carattere di Ettore; sezione 11: cimitero e foresta dei pini accessibili da subito, borsa dei veleni; pianerottolo, stanze che si ripuliscono, paura dei guardiani, diario sigillato).
 
@@ -314,14 +314,14 @@ Non ci sono scontri fisici con Aldo e Guendalina (sono segnati come boss solo pe
   - **Nord: cimitero**, dietro la casa, lungo il sentiero che le gira attorno. Resta anche la **porticina sul retro della cappella**: le due strade convivono, così Enea («il cimitero dietro la cappella») e il medaglione restano validi. «Torno indietro» riporta da dove si è entrati.
   - **Est: cappella e cripta.**
   - **Ovest: orto e serra.** Aiuole di pietra con i cartellini scritti a mano; nella serra un tepore umido e qualche piantina ancora verde, con la terra bagnata (qualcuno le annaffia: aggancio possibile per Guendalina e le erbe, da decidere).
-  - **Sud: ingresso principale.** Viale di cipressi pietrificati e un arco di pietra **senza porte**: nessun cancello, nessuna serratura. Sotto l'arco, solchi di artigli che tornano tutti verso la casa.
-- **La regola dell'ingresso:** chi entra nella casa ne esce solo con il permesso di Aldo, e dalle terre dei Vespera non esce mai. Chi oltrepassa l'arco viene circondato dai **mastini**, che lo riportano da Aldo nella sala della caccia (nell'atrio se la sala non è ancora aperta), con 1 punto mentale in meno, come la fuga dal giardino. Aldo: «Uscire dalla casa è un permesso che concedo io. Lasciare le terre dei Vespera, invece, è un permesso che non concedo a nessuno.»
-- **La foresta circonda la tenuta, a settori:** **nord** oltre il cimitero (la pineta di prima, terreno di Dafne), **est** oltre la cappella, **ovest** oltre la serra. Dal giardino non si entra direttamente nella foresta. I settori comunicano (est ↔ nord ↔ ovest); a sud c'è l'ingresso. Stesse regole d'incontro (40%), stesse prove di Sopravvivenza e Indagare per ingredienti ed erbe (una volta al giorno in tutta la foresta), legna in ogni settore. Il sentiero gira sempre in tondo.
+  - **Sud: nessun ingresso (DECISO il 2 novembre).** La tenuta non ha cancelli: il personaggio è entrato dalla grotta, e un ingresso principale non serviva alla trama. Tolti il luogo «ingresso», l'arco e la fuga con i mastini.
+- **La foresta che riporta indietro (DECISO il 2 novembre):** chi prova ad allontanarsi (a sud del giardino, scavalcando le siepi, oltre i settori della foresta, «mi allontano dalla casa») cammina a lungo e si ritrova alla fontana o al limitare da cui è entrato. **Nessun costo**: è la casa stessa a non lasciare andare nessuno, senza bisogno di spiegarlo. Prima la fuga dal giardino costava 1 punto mentale: tolto, perché il giocatore la prova quasi sempre per curiosità e una penalità gli avrebbe insegnato a non esplorare. Chi entra nella casa ne esce solo con il permesso di Aldo (la chiave del portone); dalle terre dei Vespera non esce nessuno. Gli avventurieri di agguati e cacce entrano da altre grotte o portali nella foresta.
+- **La foresta circonda la tenuta, a settori:** **nord** oltre il cimitero (la pineta di prima, terreno di Dafne), **est** oltre la cappella, **ovest** oltre la serra. Dal giardino non si entra direttamente nella foresta. I settori comunicano (est ↔ nord ↔ ovest); oltre, il bosco riporta indietro. Stesse regole d'incontro (40%), stesse prove di Sopravvivenza e Indagare per ingredienti ed erbe (una volta al giorno in tutta la foresta), legna in ogni settore. Il sentiero gira sempre in tondo.
 - **Comandi:** fuori casa ci si muove anche per punti cardinali («vado a nord», «verso est», «sud»), oltre che con i nomi dei luoghi.
 - **Cimitero, immagini (30 ottobre):** `cimitero.webp` (senza Enea, logo rimosso) e `cimitero_enea.webp` (Enea con il maglio accanto alla tomba con l'albero). Con Enea finché è lì, anche se risparmiato (resta a scavare e incidere nomi); senza se muore o prima che arrivi. Nel codice lo stato è `usate.enea` (da impostare quando si scrive la caccia d'argento; «morto» toglie Enea dall'immagine).
-- **Immagini:** in arrivo `foresta_nord`, `foresta_est`, `foresta_ovest`; per ora tutti e tre i settori usano `foresta_pini.webp`. Orto e ingresso per ora senza immagine. L'immagine del giardino mostra la cappella in fondo al viale: con la cappella a est va letta come vista verso est.
-- **Testi provvisori** (Claude), da riscrivere: crocevia nel giardino, cimitero, orto e serra, ingresso, settori est e ovest, fuga con i mastini.
-- **Da decidere:** se fuori casa ci sia un costo diverso per la fuga dall'arco (oggi 1 punto mentale, come il giardino); cosa offre la serra oltre la descrizione; se gli agguati e gli animali valgono anche in orto e ingresso (oggi sì, al 20% come il resto del fuori casa).
+- **Immagini:** in arrivo `foresta_nord`, `foresta_est`, `foresta_ovest`; per ora tutti e tre i settori usano `foresta_pini.webp`. L'orto per ora è senza immagine. **2 novembre:** nuova immagine del giardino (`giardino.webp`, logo rimosso). L'immagine del giardino mostra la cappella in fondo al viale: con la cappella a est va letta come vista verso est.
+- **Testi provvisori** (Claude), da riscrivere: crocevia nel giardino, cimitero, orto e serra, settori est e ovest.
+- **Da decidere:** cosa offre la serra oltre la descrizione; se gli agguati e gli animali valgono anche nell'orto (oggi sì, al 20% come il resto del fuori casa).
 
 ## 12. Le visioni del Retaggio (DECISO il 26 ottobre)
 

diff --git a/docs/punto_della_situazione.md b/docs/punto_della_situazione.md
@@ -26,11 +26,13 @@ Metodo: punto per punto, prima le cose leggere; zip dei file modificati solo a f
 ## 2 novembre
 - Tolte dal repo le 12 immagini .png sorgenti (~100 MB, non usate dal gioco).
 - Documenti riallineati (questo file; elisir comuni e rari segnati come decisi).
+- **Niente ingresso principale:** tolti il luogo «ingresso», l'arco e la fuga con i mastini. **La foresta che riporta indietro:** a sud del giardino, scavalcando le siepi o oltre i settori della foresta si torna alla fontana o al limitare, senza costo (prima la fuga dal giardino costava 1 punto mentale). Salvataggi fermi sull'ingresso → giardino.
+- Nuova immagine del giardino (logo rimosso).
 
 ## Punti aperti, in ordine di priorità
 
 **Leggeri**
-1. Esterni (storia §11): costo della fuga dall'arco fuori casa (oggi 1 punto mentale); cosa offre la serra; agguati e animali anche in orto e ingresso (oggi sì, 20%).
+1. Esterni (storia §11b): cosa offre la serra; agguati e animali anche nell'orto (oggi sì, 20%).
 2. Primaria del sovrano.
 
 **Da provare prima di costruirci sopra**
